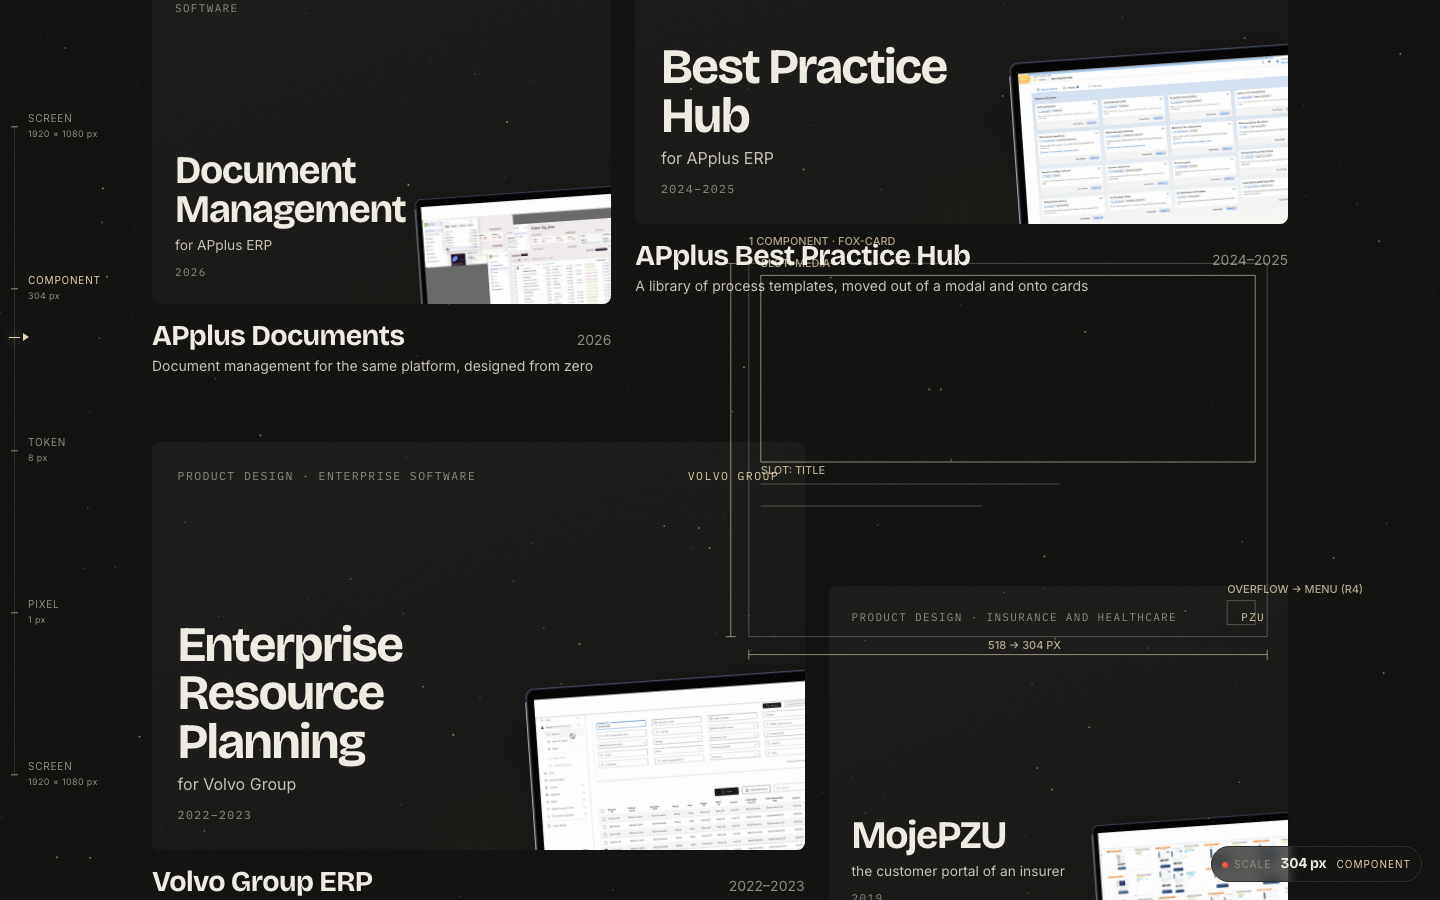
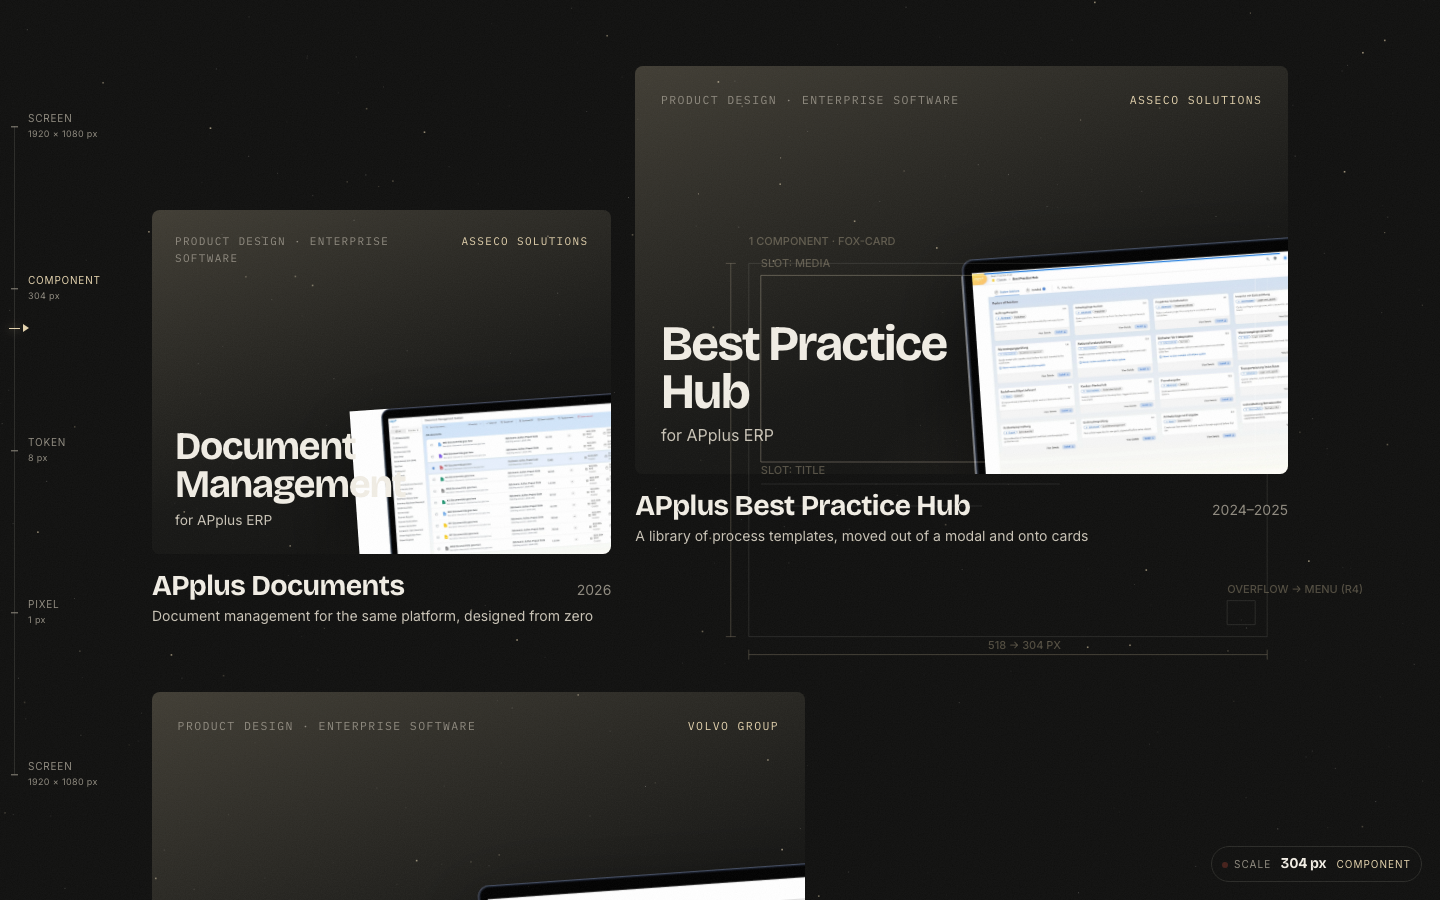
feat(home): grafika na okladkach - pole cover.art, wieksze mockupy, telefon Riyad przy krawedzi, nowe grafiki dla Riyad, Xecta, PZU, Flow i Documents

diff --git a/site/src/styles/home.css b/site/src/styles/home.css
@@ -603,15 +603,18 @@
 .tcover__org { grid-column: 2; justify-self: end; color: var(--kt-sand); white-space: nowrap; }
 .tcover__headline { grid-column: 1 / -1; align-self: end; display: grid; margin-top: var(--bh-space-2); font-family: var(--kt-font-display); font-weight: 700; font-size: clamp(1.25rem, 8.5cqw, 3.1rem); line-height: 0.98; letter-spacing: -0.035em; }
 .tcover__sub { grid-column: 1 / -1; margin-top: 0.35em; font-size: clamp(0.72rem, 3cqw, 1rem); color: var(--kt-ink-2); max-width: 24ch; }
-.tcover--device .tcover__headline, .tcover--device .tcover__sub { max-width: 58%; position: relative; z-index: 1; }
+.tcover--device .tcover__headline, .tcover--device .tcover__sub { max-width: 50%; position: relative; z-index: 1; }
+.hm-tile__cover .tcover--portrait .tcover__device { width: auto; height: 118%; right: -4%; bottom: -30%; transform: rotate(-6deg); transform-origin: 50% 100%; }
+.hm-tile:hover .hm-tile__cover .tcover--portrait .tcover__device { transform: rotate(-3deg) translateY(-3%); }
+.tcover--portrait .tcover__headline, .tcover--portrait .tcover__sub { max-width: 60%; }
 .hm-tile__cover .tcover__device {
-  position: absolute; right: -12%; bottom: -14%; width: 58%; height: auto; object-fit: contain;
+  position: absolute; right: -16%; bottom: -12%; width: 70%; height: auto; object-fit: contain;
   filter: drop-shadow(0 30px 40px rgba(0, 0, 0, 0.6));
   transform: rotate(-4deg); transform-origin: 80% 100%;
   transition: transform 900ms cubic-bezier(0.2, 0.7, 0.2, 1);
 }
 .hm-tile:hover .hm-tile__cover .tcover__device { transform: rotate(-2deg) translate(-3%, -3%) scale(1.03); }
-.hm-tiles--practice .hm-tile__cover .tcover__device { width: 74%; right: -20%; bottom: -20%; }
+.hm-tiles--practice .hm-tile__cover .tcover__device { width: 84%; right: -22%; bottom: -22%; }
 .hm-tiles--practice .tcover--device .tcover__headline, .hm-tiles--practice .tcover--device .tcover__sub { max-width: 100%; }
 .hm-tiles--practice .tcover__sub { display: none; }
 @media (prefers-reduced-motion: reduce) { .hm-tile__cover .tcover__device, .hm-tile:hover .hm-tile__cover .tcover__device { transition: none; transform: rotate(-4deg); } }

diff --git a/site/src/system/Cover.tsx b/site/src/system/Cover.tsx
@@ -142,16 +142,18 @@ function Chart() {
  * boards in the product's yellow, which said nothing about the project
  * and fought the page. This one says what the project is and whose it is,
  * in the site's own type, and lets the first mockup of the study lean out
- * of the corner. `device` is a MacBook WebP the study already owns; without
- * one the cover is type alone. The tile names and dates the link in text
+ * of the corner. `device` is a MacBook WebP the study already owns, and
+ * `cover.art` overrides it; without either the cover is type alone. The tile names and dates the link in text
  * below the cover, so the cover is hidden from assistive technology.
  */
 export function TypeCover({ cover, device }: { cover: CoverData; device?: string }) {
   const parts = cover.credit.split("·").map((x) => x.trim());
   const org = cover.org ?? (parts.length === 3 ? parts[1] : undefined);
   // the tile's own title and year sit under the cover, so this is decoration to a reader
+  const art = cover.art?.src ?? device;
+  const cls = ["tcover", art && "tcover--device", cover.art?.portrait && "tcover--portrait"].filter(Boolean).join(" ");
   return (
-    <span className={device ? "tcover tcover--device" : "tcover"} aria-hidden="true">
+    <span className={cls} aria-hidden="true">
       <span className="tcover__kicker">{cover.kicker}</span>
       {org && <span className="tcover__org">{org}</span>}
       <span className="tcover__headline">
@@ -160,7 +162,7 @@ export function TypeCover({ cover, device }: { cover: CoverData; device?: string
         ))}
       </span>
       <span className="tcover__sub">{cover.subline}</span>
-      {device && <img className="tcover__device" src={asset(device)} alt="" loading="lazy" decoding="async" />}
+      {art && <img className="tcover__device" src={asset(art)} alt="" loading="lazy" decoding="async" />}
     </span>
   );
 }

diff --git a/site/src/content/types.ts b/site/src/content/types.ts
@@ -383,6 +383,13 @@ export type Cover = {
    */
   org?: string;
   /**
+   * The picture on the typeset cover, when the study's first mockup is not
+   * the right one: a keyed export of the product on a device, or a screen
+   * with its own frame. `portrait` lays a phone against the right edge
+   * instead of a laptop across the bottom.
+   */
+  art?: { src: string; portrait?: boolean };
+  /**
    * The thumbnail on the next-case link and the listing bands. The Work
    * grid on the home page draws a typeset cover instead (TypeCover). Not
    * drawn on the intro — see Cover.tsx for why sixteen projects share one

diff --git a/site/src/content/riyad.ts b/site/src/content/riyad.ts
@@ -19,6 +19,7 @@ export const riyad: CaseStudy = {
     subline: "Digital Insights, for Riyad Bank",
     stamp: "DESIGNED FROM SCRATCH · 3D NAVIGATION · ILLUSTRATION SYSTEM · SHIPPED",
     credit: "UX/UI Designer · Big Hat, via Intellias · Riyad Bank, Saudi Arabia",
+    art: { src: "/work/riyad-bank/cover-art.webp", portrait: true },
     shot: { src: "/work/riyad-bank/00-cover.png" },
   },
   meta: [

diff --git a/site/src/content/flow.ts b/site/src/content/flow.ts
@@ -34,6 +34,7 @@ export const flow: CaseStudy = {
     subline: "navigation and page layout for APplus ERP",
     stamp: "NAVIGATION · PAGE DETAILS · FOX v2.5 · DESKTOP TO MOBILE",
     credit: "Lead Designer, UX Engineer · Asseco Solutions · 2023",
+    art: { src: "/work/applus-flow/screens/tablet-dark.webp" },
     shot: { src: "/work/applus-flow/00-cover.png" },
   },
   meta: [

diff --git a/site/src/content/xecta.ts b/site/src/content/xecta.ts
@@ -27,6 +27,7 @@ export const xecta: CaseStudy = {
     subline: "and optimisation for upstream oil and gas, and the company website",
     stamp: "DATA-DENSE · HEAVY VISUALISATION · CORPORATE SITE",
     credit: "Senior UX & UI designer · Xecta · 2020–2021 and 2022",
+    art: { src: "/work/xecta/cover-art.webp" },
     shot: { src: `${W}/00-cover.png` },
   },
   meta: [

diff --git a/site/src/content/dms.ts b/site/src/content/dms.ts
@@ -31,6 +31,7 @@ export const dms: CaseStudy = {
     subline: "for APplus ERP",
     stamp: "VERSIONING · METADATA · SEARCH · PERMISSIONS · RETENTION",
     credit: "Lead Designer, UX Engineer · Asseco Solutions · 2026",
+    art: { src: "/work/applus-documents/cover-art.webp" },
     shot: { src: "/work/applus-documents/00-cover.png" },
   },
   meta: [

diff --git a/site/src/content/pzu.ts b/site/src/content/pzu.ts
@@ -29,6 +29,7 @@ export const pzu: CaseStudy = {
     subline: "the customer portal of an insurer",
     stamp: "RESEARCH · INFORMATION ARCHITECTURE · THREE PROTOTYPES",
     credit: "UI Designer · PZU · 2019",
+    art: { src: "/work/mojepzu/cover-art.webp" },
     shot: { src: "/work/mojepzu/screens/cover.webp" },
   },
   meta: [
